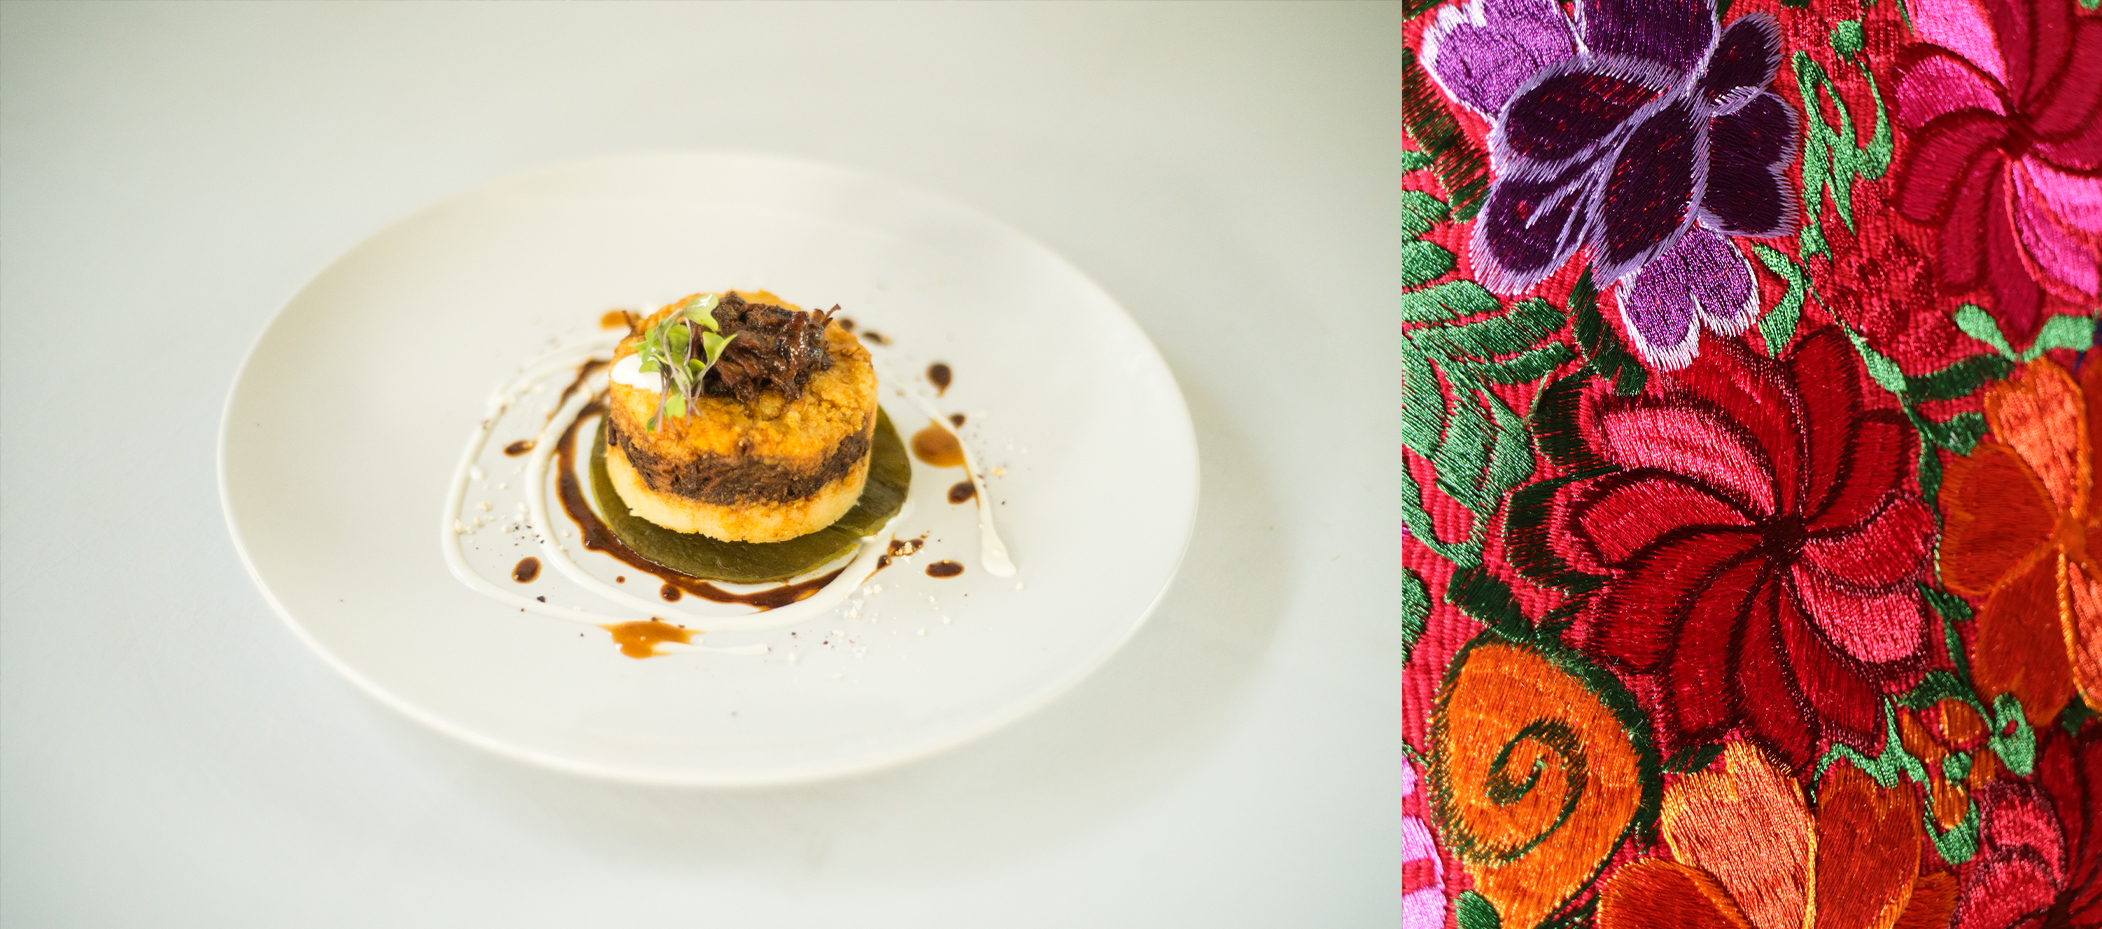
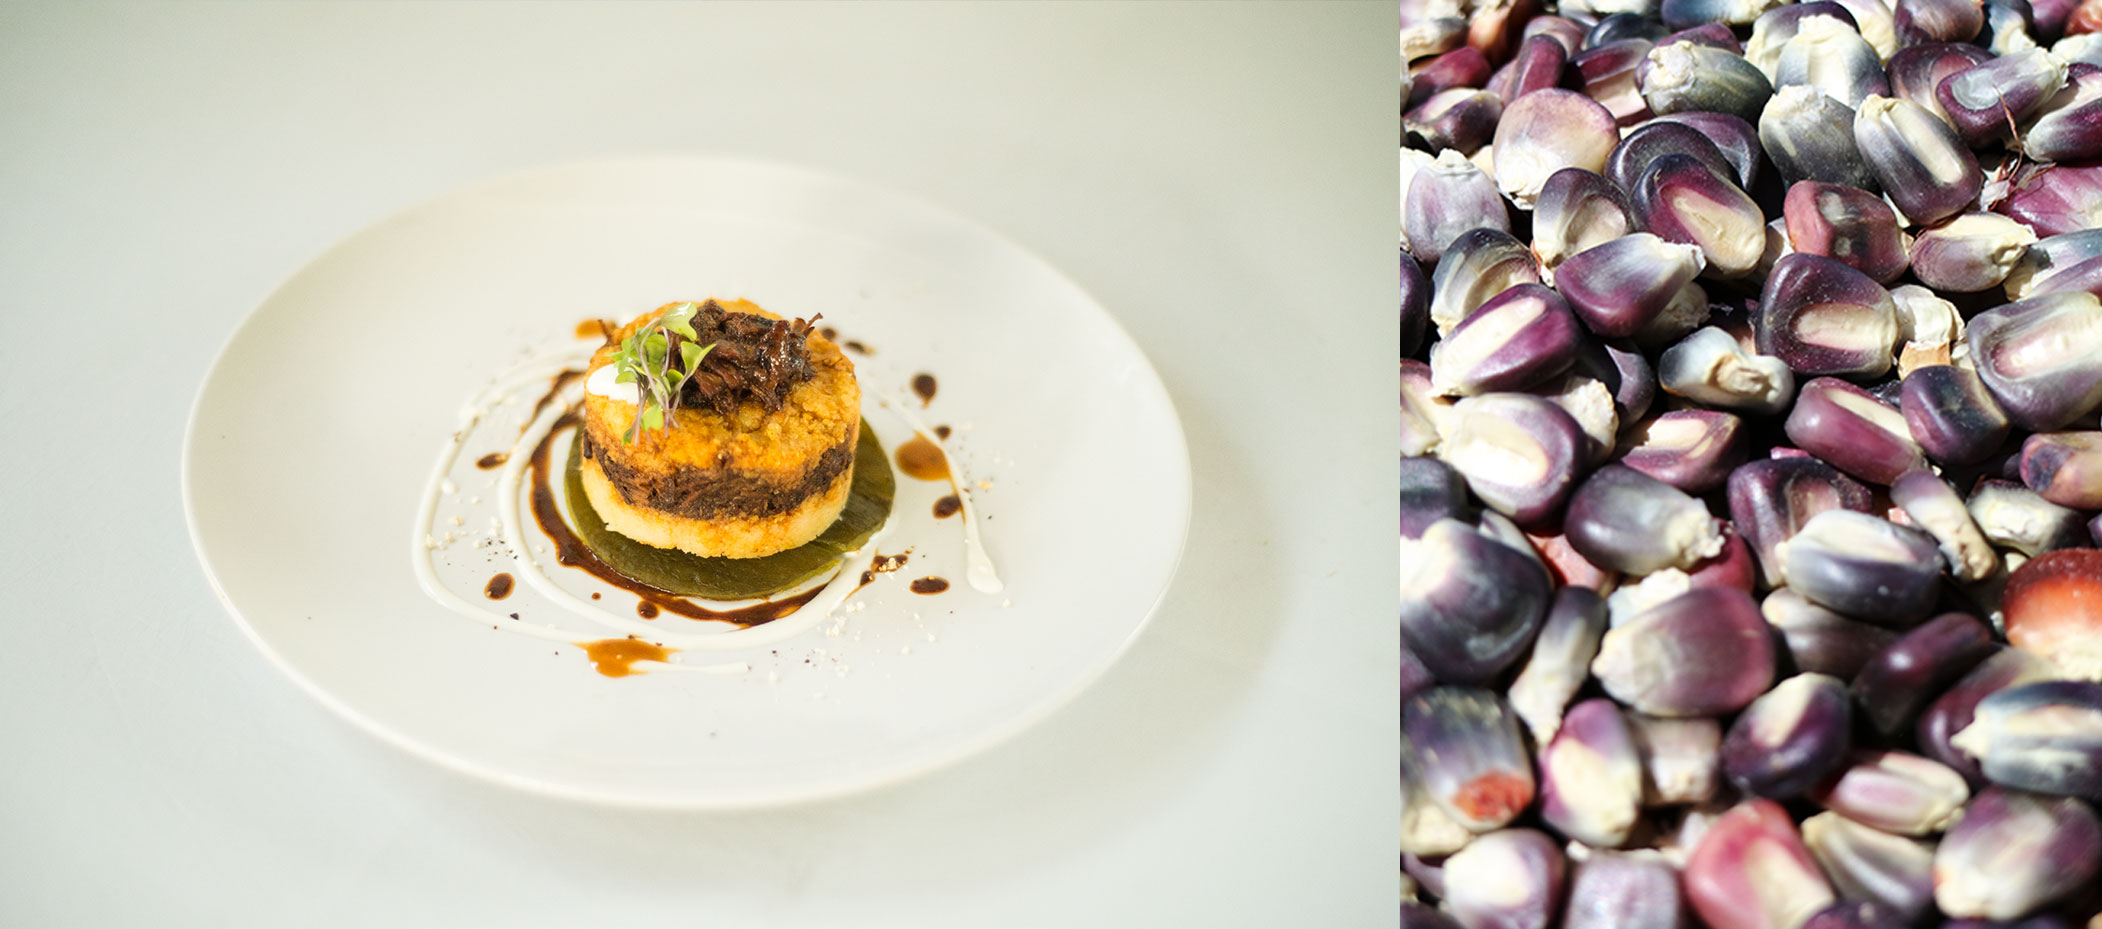
Added new Slider Images

diff --git a/components/Slider/SliderWrapper.js b/components/Slider/SliderWrapper.js
@@ -17,15 +17,14 @@ export default class SliderWrapper extends Component {
   render () {
     var url = [
       '/static/lg/lgOne.jpg',
-      '/static/small/smallOne.jpg',
-      '/static/md/mdOne.jpg',
       '/static/lg/lgTwo.jpg',
-      '/static/md/mdTwo.jpg',
-      '/static/small/smallTwo.jpg'
+      '/static/lg/lgThree.jpg',
+      '/static/lg/lgFour.jpg',
+      '/static/lg/lgFive.jpg',
     ]
-    var type = ['full', 'right-small', 'left-medium', 'full', 'left-medium', 'right-small']
+    var type = ['full', 'full', 'full', 'full', 'full']
     var zIndex = [0, 1, 2, 3, 4, 5]
-    var time = [0, 3500, 5500, 7500, 9500, 11500]
+    var time = [0, 2500, 5000, 7500, 10000, 12500]
     return (
       <div className='main-wrapper' id='prueba'>
         {
